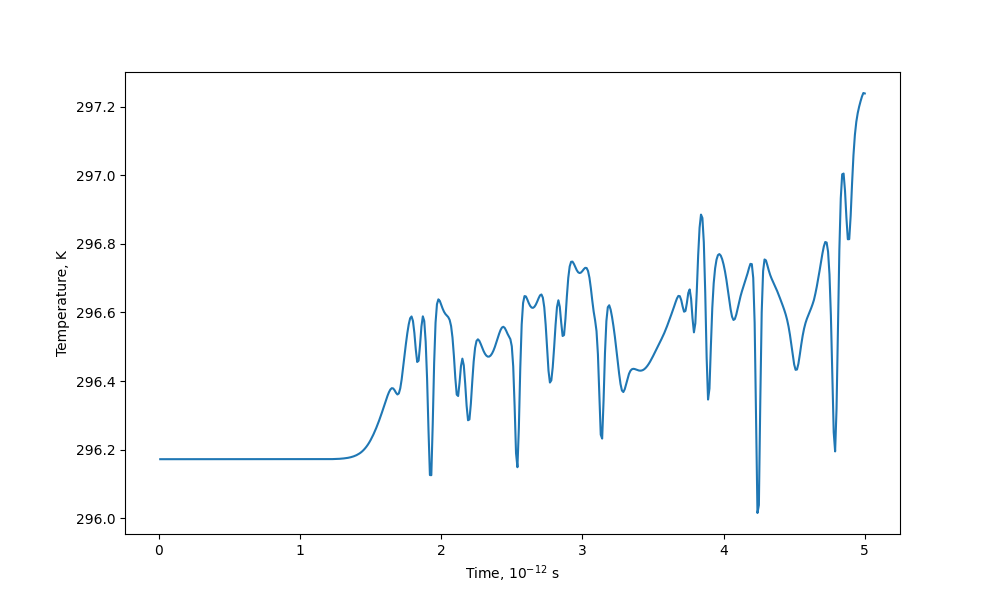
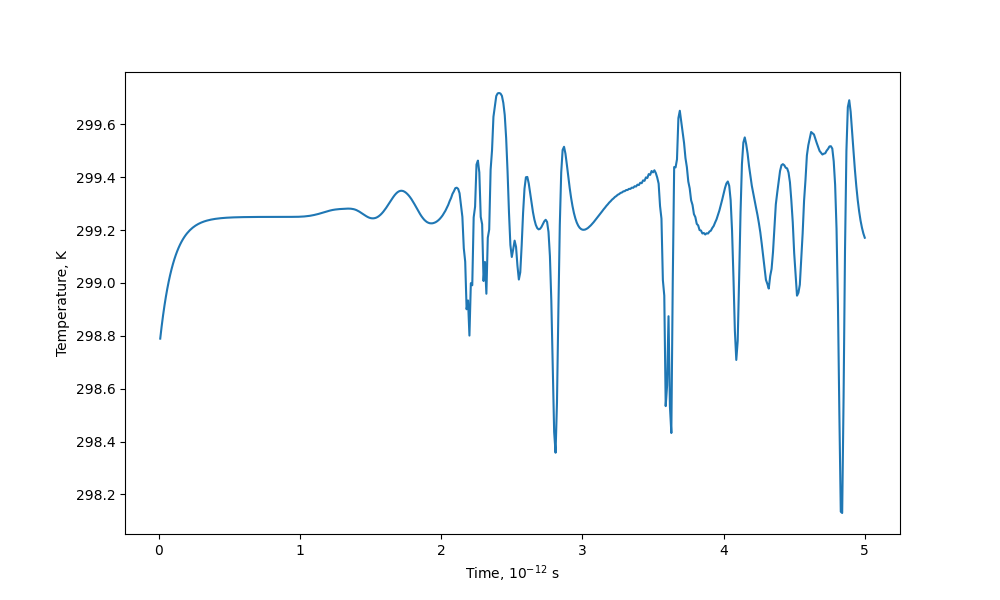
added thermostat, made some adjustments

diff --git a/md.py b/md.py
@@ -1,14 +1,12 @@
 import numpy as np
 from itertools import product
-#import multiprocessing
-#from joblib import Parallel, delayed
-
 
 class particle:
-    def __init__ (self, position, velocity, mass):
+    def __init__ (self, position, velocity, mass, acceleration):
         self.r = position
         self.v = velocity
         self.m = mass
+        self.a = acceleration
 class system:
     def __init__ (self):
         self.particles = []
@@ -20,18 +18,20 @@ class system:
             for o in offsets:
                 r = p + o
                 v = np.random.normal(0, np.sqrt(T), size=3)
-                self.particles.append(particle(r, v, m))
+                a = np.zeros(3)
+                self.particles.append(particle(r, v, a, m))
     
-    def calculate_temperature(self, time):
-        velocities = np.array([p.v for p in self.particles])
-        kinetic_energy = np.sum(velocities**2) # need to account for mass if mass not equal to 1
-        T = kinetic_energy / (3 * len(self.particles))
+    def calculate_temperature(self):
+        kinetic_energy = 0.5 * np.sum([p.m * np.dot(p.v, p.v) for p in self.particles])
+        T = 2 * kinetic_energy / (3 * len(self.particles))
         return T
 
-    # calculating force between two particles:        
-    def lennard_jones(self, i, j, offset):
+    # calculating force between two particles:
+    def lennard_jones(self, i, j):   
+    #def lennard_jones(self, i, j, offset):
         r_i = self.particles[i].r
-        r_j = self.particles[j].r + offset # by using offset we account for interactions with dummy particles outside the boundaries
+        r_j = self.particles[j].r
+        #r_j = self.particles[j].r + offset # by using offset we account for interactions with dummy particles outside the boundaries
         s = np.linalg.norm(r_i - r_j)
         # particles far apart have negligible interactions
         if s > 3:
@@ -42,16 +42,17 @@ class system:
     def total_force_particles(self, i, unit_cell_size, lattice_dim): 
         F = np.zeros(3)
         # offset values to account for dummy particles:
-        period_bound = np.array(list(product([-unit_cell_size * lattice_dim, 0, unit_cell_size * lattice_dim], repeat=3)))
+        #period_bound = np.array(list(product([-unit_cell_size * lattice_dim, 0, unit_cell_size * lattice_dim], repeat=3)))
         n = len(self.particles)
         for j in range(n):
             if j != i:
-                for k in range(period_bound.shape[0]):
-                    F += self.lennard_jones(i, j, period_bound[k])
+                F += self.lennard_jones(i, j)
+                #for k in range(period_bound.shape[0]):
+                    #F += self.lennard_jones(i, j, period_bound[k])
         return F
 
     # system evolution for a single step:
-    def verlet_evolve(self, dt, unit_cell_size, lattice_dim):
+    def verlet_evolve(self, dt, unit_cell_size, lattice_dim, target_temp):
         n = len(self.particles)
         a = np.zeros((n, 3))
         # calculate acceleration for all particles:
@@ -69,23 +70,29 @@ class system:
         # update velocities for all particles:
         for i in range(n): 
             self.particles[i].v = self.particles[i].v + 0.5*a[i]*dt
-    
             # reflective boundaries:
             if any(self.particles[i].r[k] > unit_cell_size * (lattice_dim - 0.5) or self.particles[i].r[k] < 0 for k in range(3)):
                 self.particles[i].v = -self.particles[i].v
+        # apply Berendsen thermostat
+        current_temp = self.calculate_temperature()
+        tau = 0.1
+        lambda_factor = np.sqrt(1 + (dt / tau) * (target_temp / current_temp - 1))
+        for p in self.particles:
+            p.v *= lambda_factor
+
             
-            """
-            # NB: this implementation doesn't work.
-            # get the particles that leave the system to re-enter from the opposite side:
-            for k in range(3):
-                if self.particles[i].r[k] > unit_cell_size * (lattice_dim - 0.5):
-                    self.particles[i].r[k] = self.particles[i].r[k] - unit_cell_size * (lattice_dim - 0.5)
-                if self.particles[i].r[k] < 0:
-                    self.particles[i].r[k] = self.particles[i].r[k] + unit_cell_size * (lattice_dim - 0.5)
-            """           
+        """
+        # NB: this implementation doesn't work.
+        # get the particles that leave the system to re-enter from the opposite side:
+        for k in range(3):
+            if self.particles[i].r[k] > unit_cell_size * (lattice_dim - 0.5):
+                self.particles[i].r[k] = self.particles[i].r[k] - unit_cell_size * (lattice_dim - 0.5)
+            if self.particles[i].r[k] < 0:
+                self.particles[i].r[k] = self.particles[i].r[k] + unit_cell_size * (lattice_dim - 0.5)
+        """           
 
     # system evolution through time:     
-    def verlet_simulate(self, dt, t, unit_cell_size, lattice_dim):
+    def verlet_simulate(self, dt, t, unit_cell_size, lattice_dim, target_temp):
         n_iter = int(t/dt)
         n = len(self.particles)
         with open('md.txt', 'w') as md_file, open('temp.txt', 'w') as temp_file:
@@ -94,19 +101,12 @@ class system:
                 md_file.write("type                    x                    y                    z\n")
                 for p in self.particles:
                     md_file.write(f"Ar          {p.r[0]:.10f}          {p.r[1]:.10f}          {p.r[2]:.10f}\n")
-                self.verlet_evolve(dt, unit_cell_size, lattice_dim)
+                self.verlet_evolve(dt, unit_cell_size, lattice_dim, target_temp)
                 time = (i + 1) * dt
-                T = self.calculate_temperature(time)
+                T = self.calculate_temperature()
                 temp_file.write(f"{time:.2f}\t{T}\n")
             # write last step to file:
             md_file.write(f"{n}\n")
             md_file.write("type                    x                    y                    z\n")
             for p in self.particles:
                 md_file.write(f"Ar          {p.r[0]:.10f}          {p.r[1]:.10f}          {p.r[2]:.10f}\n")
-
-
-            
-            
-            
-
-   

diff --git a/main.py b/main.py
@@ -2,7 +2,7 @@ import md
 
 unit_cell_size = 15 # for argon gas
 #unit_cell_size = 1.7 # for liquid argon
-lattice_dim = 5 # number of units cells along an axis (number of particles = 4 * lattice_dim ^ 3)
+lattice_dim = 4 # number of units cells along an axis (number of particles = 4 * lattice_dim ^ 3)
 t = 5 # total time
 dt = 0.01 # time step
 m = 1 # mass
@@ -14,6 +14,6 @@ my_system = md.system()
 
 my_system.add_particles(unit_cell_size, lattice_dim, m, T)
 
-my_system.verlet_simulate(dt, t, unit_cell_size, lattice_dim)
+my_system.verlet_simulate(dt, t, unit_cell_size, lattice_dim, T)
 
 
